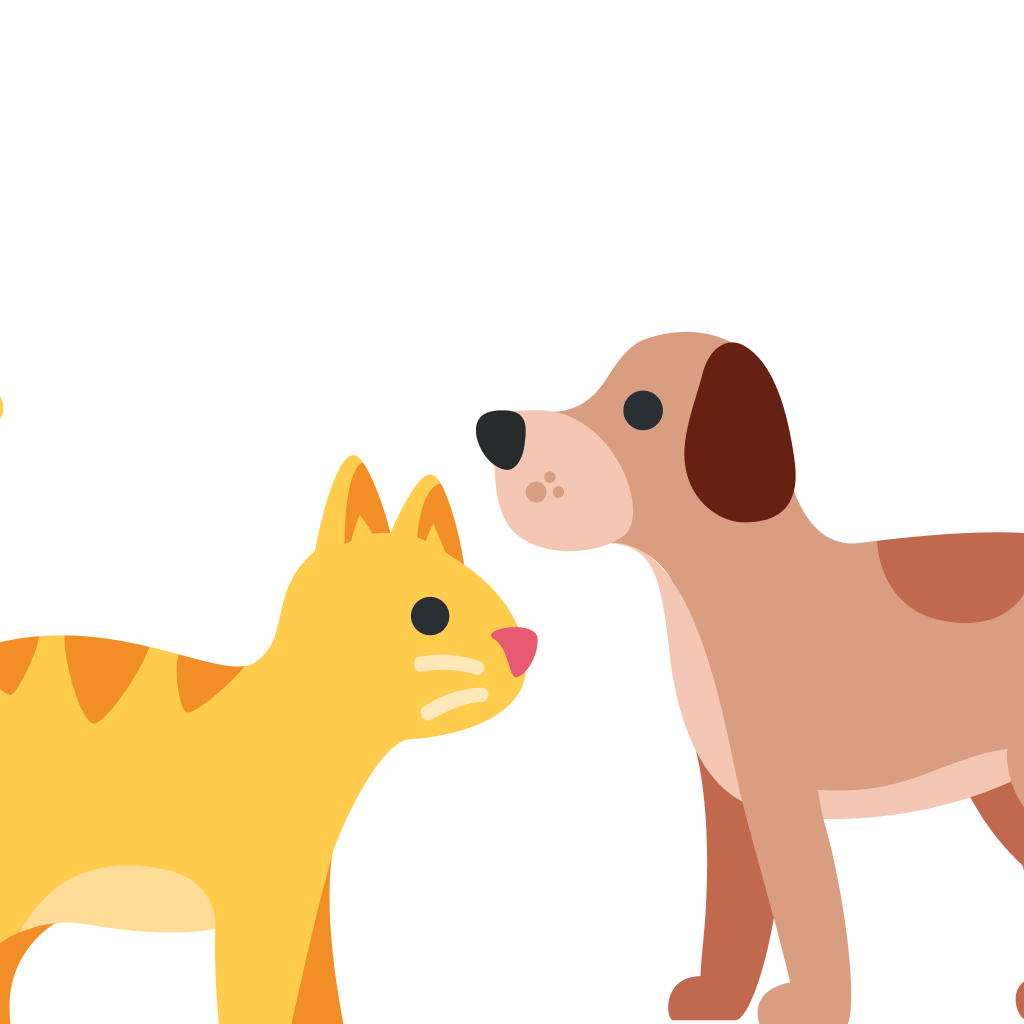
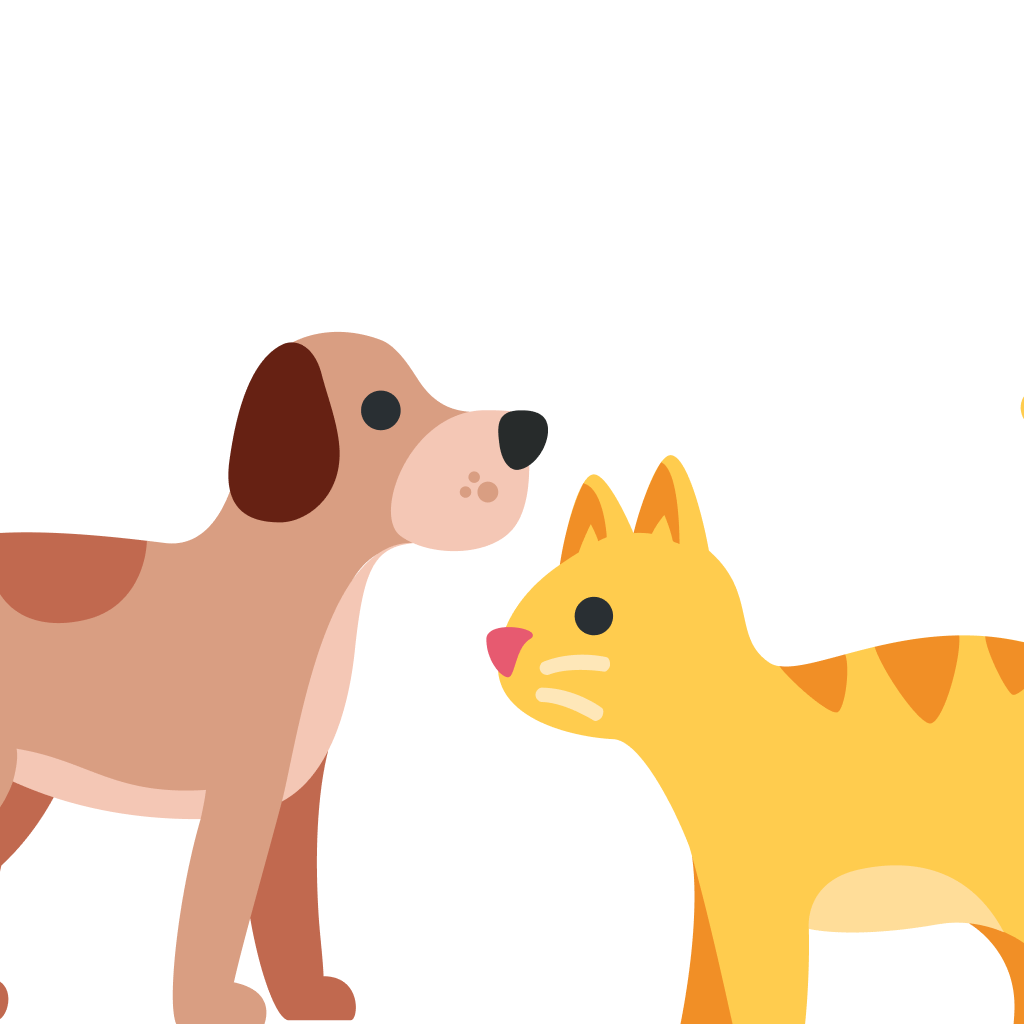
adds a demo on first launch

diff --git a/components/Demo.tsx b/components/Demo.tsx
@@ -1,0 +1,72 @@
+import { Asset } from "expo-asset";
+import { Image } from "expo-image";
+import { ReactNode, useEffect, useState } from "react";
+import { StyleSheet, Text, View } from "react-native";
+import Animated, { FadeIn } from "react-native-reanimated";
+import { Gesture, GestureDetector } from "react-native-gesture-handler";
+import useHasSeenDemo from "../hooks/useHasSeenDemo";
+import { router } from "expo-router";
+
+export interface DemoProps {
+  demoAsset: Asset;
+}
+
+export default function Demo({ demoAsset }: DemoProps): ReactNode {
+  const { setHasSeenDemo } = useHasSeenDemo();
+  const [allowContinue, setAllowContinue] = useState(false);
+
+  useEffect(() => {
+    const timeout = setTimeout(() => {
+      setAllowContinue(true);
+    }, 6500);
+
+    return () => {
+      clearTimeout(timeout);
+    };
+  }, []);
+
+  const tap = Gesture.Tap()
+    .enabled(allowContinue)
+    .runOnJS(true)
+    .onTouchesUp(() => {
+      setHasSeenDemo(`1`).then(() => {
+        router.replace("/");
+      });
+    });
+
+  return (
+    <GestureDetector gesture={tap}>
+      <View style={styles.container}>
+        <Image style={styles.image} source={demoAsset} />
+        {allowContinue ? (
+          <Animated.View entering={FadeIn.duration(500)}>
+            <Text style={styles.text}>{"Tap to continue"}</Text>
+          </Animated.View>
+        ) : (
+          <></>
+        )}
+      </View>
+    </GestureDetector>
+  );
+}
+
+const styles = StyleSheet.create({
+  container: {
+    flex: 1,
+    padding: 16,
+    alignItems: "center",
+    justifyContent: "flex-end",
+    backgroundColor: "#b7cece",
+  },
+  image: {
+    position: "absolute",
+    top: 0,
+    left: 0,
+    right: 0,
+    bottom: 0,
+  },
+  text: {
+    fontFamily: "TitanOne",
+    fontSize: 30,
+  },
+});

diff --git a/app/index.tsx b/app/index.tsx
@@ -1,22 +1,46 @@
+import { useEffect, useState } from "react";
+import { router } from "expo-router";
 import { StatusBar } from "expo-status-bar";
 import { StyleSheet } from "react-native";
 import { GestureHandlerRootView } from "react-native-gesture-handler";
 
 import Canvas from "../components/Canvas";
+import HideSplashScreen from "../components/HideSplashScreen";
+import useHasSeenDemo from "../hooks/useHasSeenDemo";
+
+export const HAS_SEEN_DEMO_FLAG = "dog-or-cat-has-seen-demo";
 
 export default function App() {
-  return (
-    <GestureHandlerRootView style={styles.container}>
-      <Canvas />
+  const [showContent, setShowContent] = useState(false);
+  const { getHasSeenDemo } = useHasSeenDemo();
 
-      <StatusBar style="auto" />
-    </GestureHandlerRootView>
+  useEffect(() => {
+    getHasSeenDemo().then((result) => {
+      if (result) {
+        setShowContent(true);
+      } else {
+        router.replace("/demo");
+      }
+    });
+  }, []);
+
+  if (!showContent) {
+    return null;
+  }
+
+  return (
+    <HideSplashScreen>
+      <GestureHandlerRootView style={styles.container}>
+        <Canvas />
+
+        <StatusBar style="auto" />
+      </GestureHandlerRootView>
+    </HideSplashScreen>
   );
 }
 
 const styles = StyleSheet.create({
   container: {
     flex: 1,
-    backgroundColor: "#b7cece",
   },
 });

diff --git a/app/_layout.tsx b/app/_layout.tsx
@@ -1,5 +1,5 @@
 import { ReactNode } from "react";
-import { useColorScheme } from "react-native";
+import { StyleSheet, View, useColorScheme } from "react-native";
 import {
   DarkTheme,
   DefaultTheme,
@@ -8,7 +8,6 @@ import {
 import { Stack } from "expo-router";
 import * as SplashScreen from "expo-splash-screen";
 import EnsureFontsLoaded from "../components/EnsureFontsLoaded";
-import HideSplashScreen from "../components/HideSplashScreen";
 
 export {
   // Catch any errors thrown by the Layout component.
@@ -23,17 +22,23 @@ SplashScreen.preventAutoHideAsync();
 
 export default function RootLayout(): ReactNode {
   const colorScheme = useColorScheme();
+
   return (
-    <EnsureFontsLoaded>
-      <HideSplashScreen>
+    <View style={styles.container}>
+      <EnsureFontsLoaded>
         <ThemeProvider
           value={colorScheme === "dark" ? DarkTheme : DefaultTheme}
         >
           <Stack>
             <Stack.Screen name="index" options={{ headerShown: false }} />
+            <Stack.Screen name="demo" options={{ headerShown: false }} />
           </Stack>
         </ThemeProvider>
-      </HideSplashScreen>
-    </EnsureFontsLoaded>
+      </EnsureFontsLoaded>
+    </View>
   );
 }
+
+const styles = StyleSheet.create({
+  container: { flex: 1, backgroundColor: "#b7cece" },
+});

diff --git a/app/demo.tsx b/app/demo.tsx
@@ -1,0 +1,46 @@
+import { useAssets } from "expo-asset";
+import { ReactNode, useEffect } from "react";
+import { StyleSheet } from "react-native";
+import { GestureHandlerRootView } from "react-native-gesture-handler";
+import HideSplashScreen from "../components/HideSplashScreen";
+import Demo from "../components/Demo";
+
+export default function DemoScreen(): ReactNode {
+  const [assets, error] = useAssets(
+    require("../assets/images/dogorcat_howto.png")
+  );
+
+  useEffect(() => {
+    if (error) {
+      throw error;
+    }
+  }, [error]);
+
+  if (!assets) {
+    return null;
+  }
+
+  return (
+    <HideSplashScreen>
+      <GestureHandlerRootView style={styles.container}>
+        <Demo demoAsset={assets[0]} />
+      </GestureHandlerRootView>
+    </HideSplashScreen>
+  );
+}
+
+const styles = StyleSheet.create({
+  container: {
+    flex: 1,
+  },
+  background: {
+    flex: 1,
+    alignItems: "center",
+    justifyContent: "flex-end",
+    padding: 16,
+  },
+  text: {
+    fontFamily: "TitanOne",
+    fontSize: 30,
+  },
+});

diff --git a/components/Image.tsx b/components/Image.tsx
@@ -1,7 +1,6 @@
 import { ReactNode, useMemo } from "react";
 import { StyleSheet, useWindowDimensions } from "react-native";
-import { Image as ExpoImage } from "expo-image";
-import Animated, {
+import {
   Easing,
   FadeIn,
   FadeOut,
@@ -10,8 +9,7 @@ import Animated, {
 import { ImageData } from "../types/Image";
 import { BASE_ELEVATION, HEIGHT_SCALE, WIDTH_SCALE } from "../constants";
 import { usePanGesture } from "../context/PanGesture";
-
-const AnimatedExpoImage = Animated.createAnimatedComponent(ExpoImage);
+import AnimatedExpoImage from "./AnimatedImage";
 
 export interface ImageProps {
   image: ImageData;
@@ -59,6 +57,7 @@ const styles = StyleSheet.create({
     borderColor: "#fff",
     backgroundColor: "#fff",
     borderWidth: 3,
+    borderStyle: "solid",
     elevation: BASE_ELEVATION,
     zIndex: 10,
   },

diff --git a/hooks/useHasSeenDemo.ts b/hooks/useHasSeenDemo.ts
@@ -1,0 +1,20 @@
+import { useAsyncStorage } from "@react-native-async-storage/async-storage";
+import {
+  Callback,
+  CallbackWithResult,
+} from "@react-native-async-storage/async-storage/lib/typescript/types";
+
+export const HAS_SEEN_DEMO_FLAG = "dog-or-cat-has-seen-demo";
+
+export interface UseHasSeenDemoReturnValue {
+  getHasSeenDemo: (
+    callback?: CallbackWithResult<string>
+  ) => Promise<string | null>;
+  setHasSeenDemo: (value: string, callback?: Callback) => Promise<void>;
+}
+
+export default function useHasSeenDemo() {
+  const { getItem, setItem, removeItem } = useAsyncStorage(HAS_SEEN_DEMO_FLAG);
+
+  return { getHasSeenDemo: getItem, setHasSeenDemo: setItem };
+}

diff --git a/components/Canvas.tsx b/components/Canvas.tsx
@@ -15,11 +15,11 @@ export default function Canvas(): ReactNode {
   return (
     <View style={styles.container}>
       <ImagesContextProvider>
-        <ImageStack onUpdate={setSide} onComplete={handleOnComplete} />
-
         <SwipeHelpers side={side} />
 
         <ImageAttribution />
+
+        <ImageStack onUpdate={setSide} onComplete={handleOnComplete} />
       </ImagesContextProvider>
     </View>
   );
@@ -30,5 +30,6 @@ const styles = StyleSheet.create({
     flex: 1,
     justifyContent: "center",
     alignItems: "center",
+    backgroundColor: "#b7cece",
   },
 });

diff --git a/components/AnimatedImage.tsx b/components/AnimatedImage.tsx
@@ -1,0 +1,6 @@
+import Animated from "react-native-reanimated";
+import { Image as ExpoImage } from "expo-image";
+
+const AnimatedExpoImage = Animated.createAnimatedComponent(ExpoImage);
+
+export default AnimatedExpoImage;

diff --git a/components/SwipeHelpers.tsx b/components/SwipeHelpers.tsx
@@ -40,7 +40,6 @@ const styles = StyleSheet.create({
     flex: 1,
     alignSelf: "stretch",
     justifyContent: "center",
-    zIndex: 1,
   },
   box: {
     position: "absolute",

diff --git a/components/ImageAttribution.tsx b/components/ImageAttribution.tsx
@@ -39,7 +39,6 @@ const styles = StyleSheet.create({
     padding: 10,
     flexDirection: "row",
     flexWrap: "wrap",
-    zIndex: 1,
   },
   link: {
     fontStyle: "italic",

diff --git a/README.md b/README.md
@@ -24,7 +24,7 @@ If the development version is installed, it will need to connect to the developm
 
 - [x] drag images to the left/top/right
 - [x] have many images that can be iterated through repeatedly
-- [ ] have some sort of demo thing so folks know what to do
+- [x] have some sort of demo thing so folks know what to do
 - [ ] github pages integration
 - [ ] organize things
 - [ ] learn how to test gestures/animations
